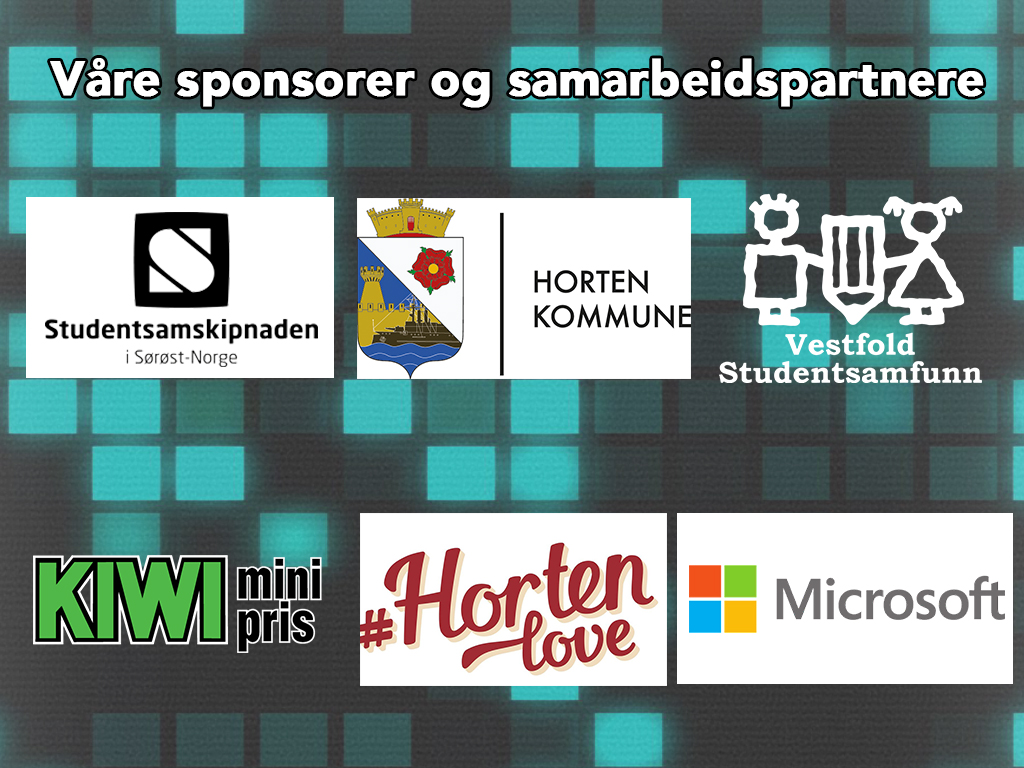
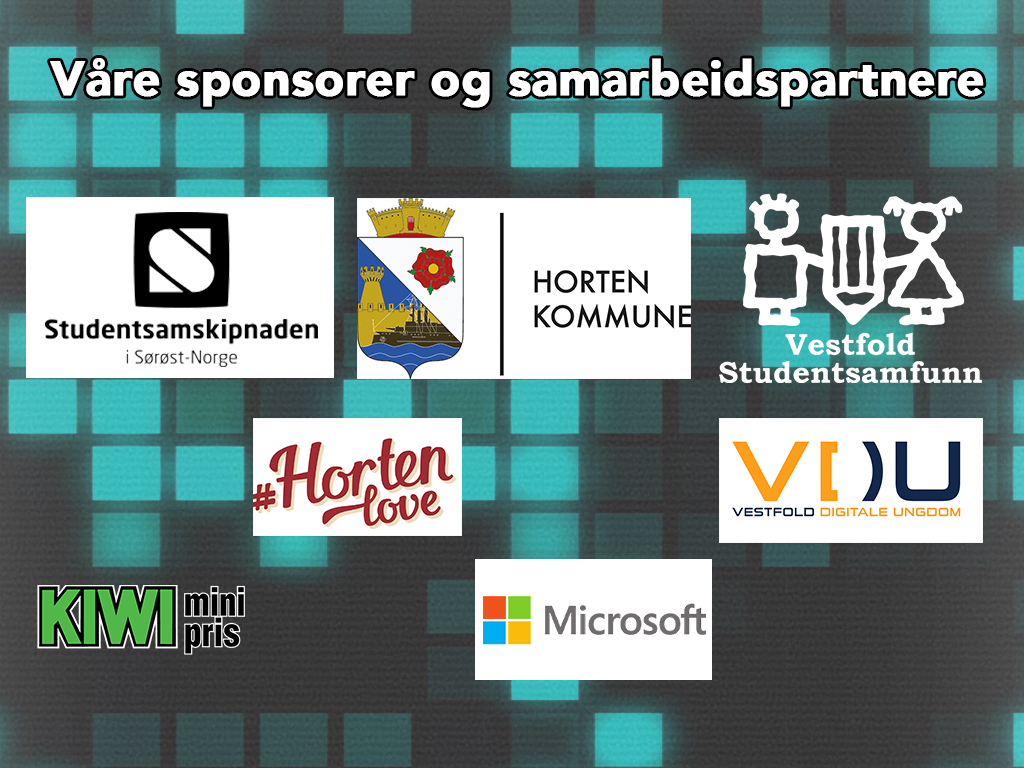
Updated sponsors, added menu

Changed region(s): [[0.0312, 0.5312, 1.0, 0.9062]]

diff --git a/presentasjon.html b/presentasjon.html
@@ -117,10 +117,7 @@ background-image: url(slide2_program.jpg)
 
 ---
 
-background-image: url(slide3_meny.jpg)
-
-# Menu-stuff
-## Fill in on March 5th
+background-image: url(slide3_menu.jpg)
 
 ---
 
